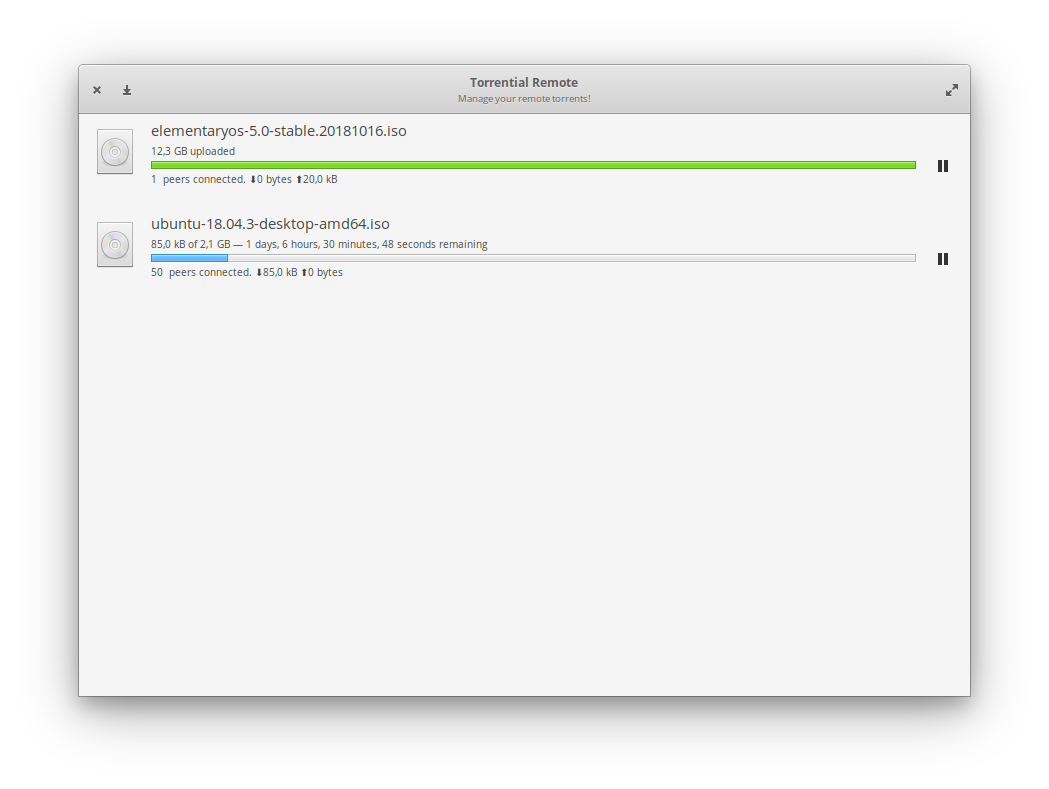
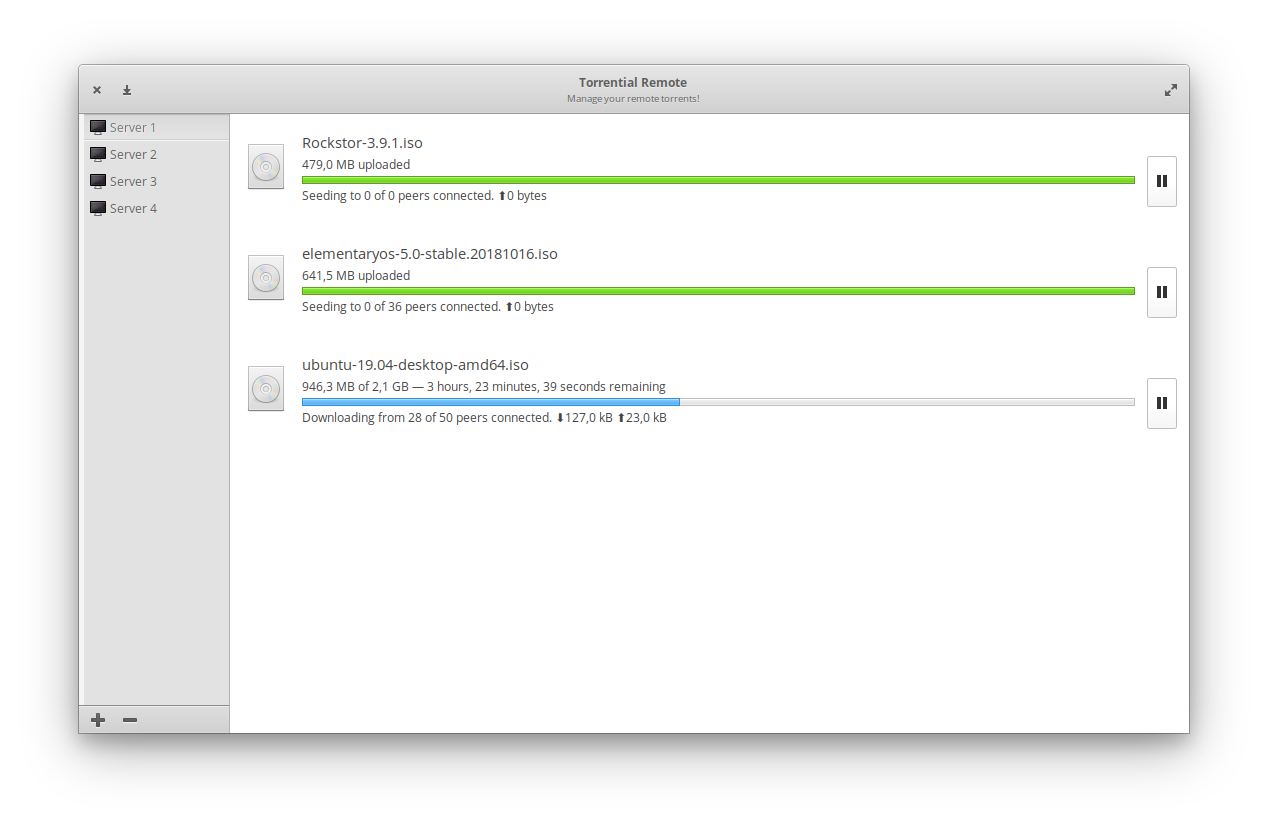
Update screenshots and README; Added side pannel for saved servers list;

Changed region(s): [[0.0305, 0.0913, 0.9457, 0.9125], [0.183, 0.4259, 0.5491, 0.5171]]

diff --git a/README.md b/README.md
@@ -2,6 +2,8 @@
 
 Inspired by [David Hewitt](https://github.com/davidmhewitt)'s wonderfull [Torrential](https://github.com/davidmhewitt/torrential) application, Torrential Remote allows for the remote management of multiple torrent servers.
 
+![Torrents Page](screenshots/Torrents.png "Torrents")
+
 ## TODO
 - [x] Retrieve the torrents from a server
 - [x] Show the torrents in a list
@@ -28,8 +30,3 @@ Inspired by [David Hewitt](https://github.com/davidmhewitt)'s wonderfull [Torren
     cd build
     ninja
     sudo ninja install
-
-**Screenshots**  
-
-![Welcome Page](screenshots/Welcome.png "Welcome")
-![Torrents Page](screenshots/Torrents.png "Torrents")
